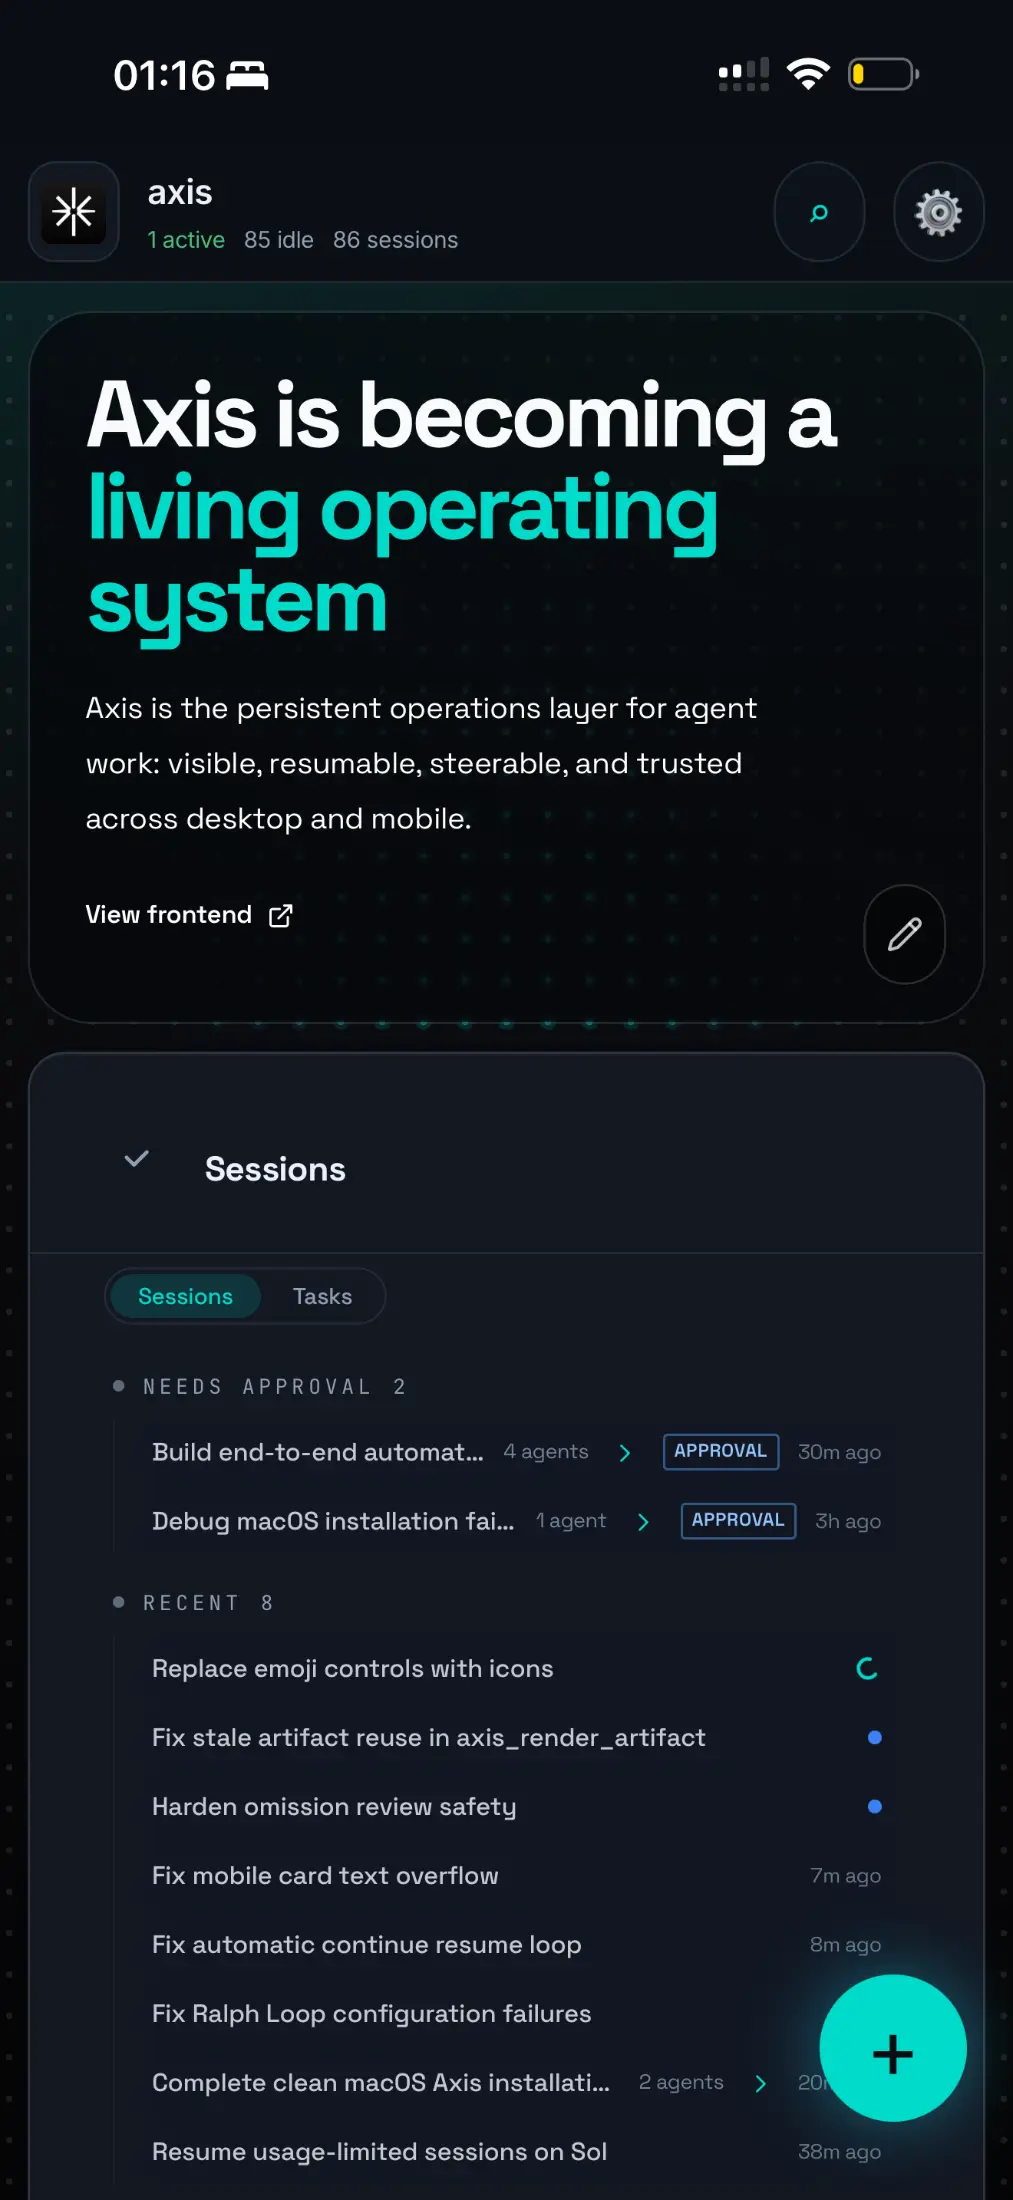
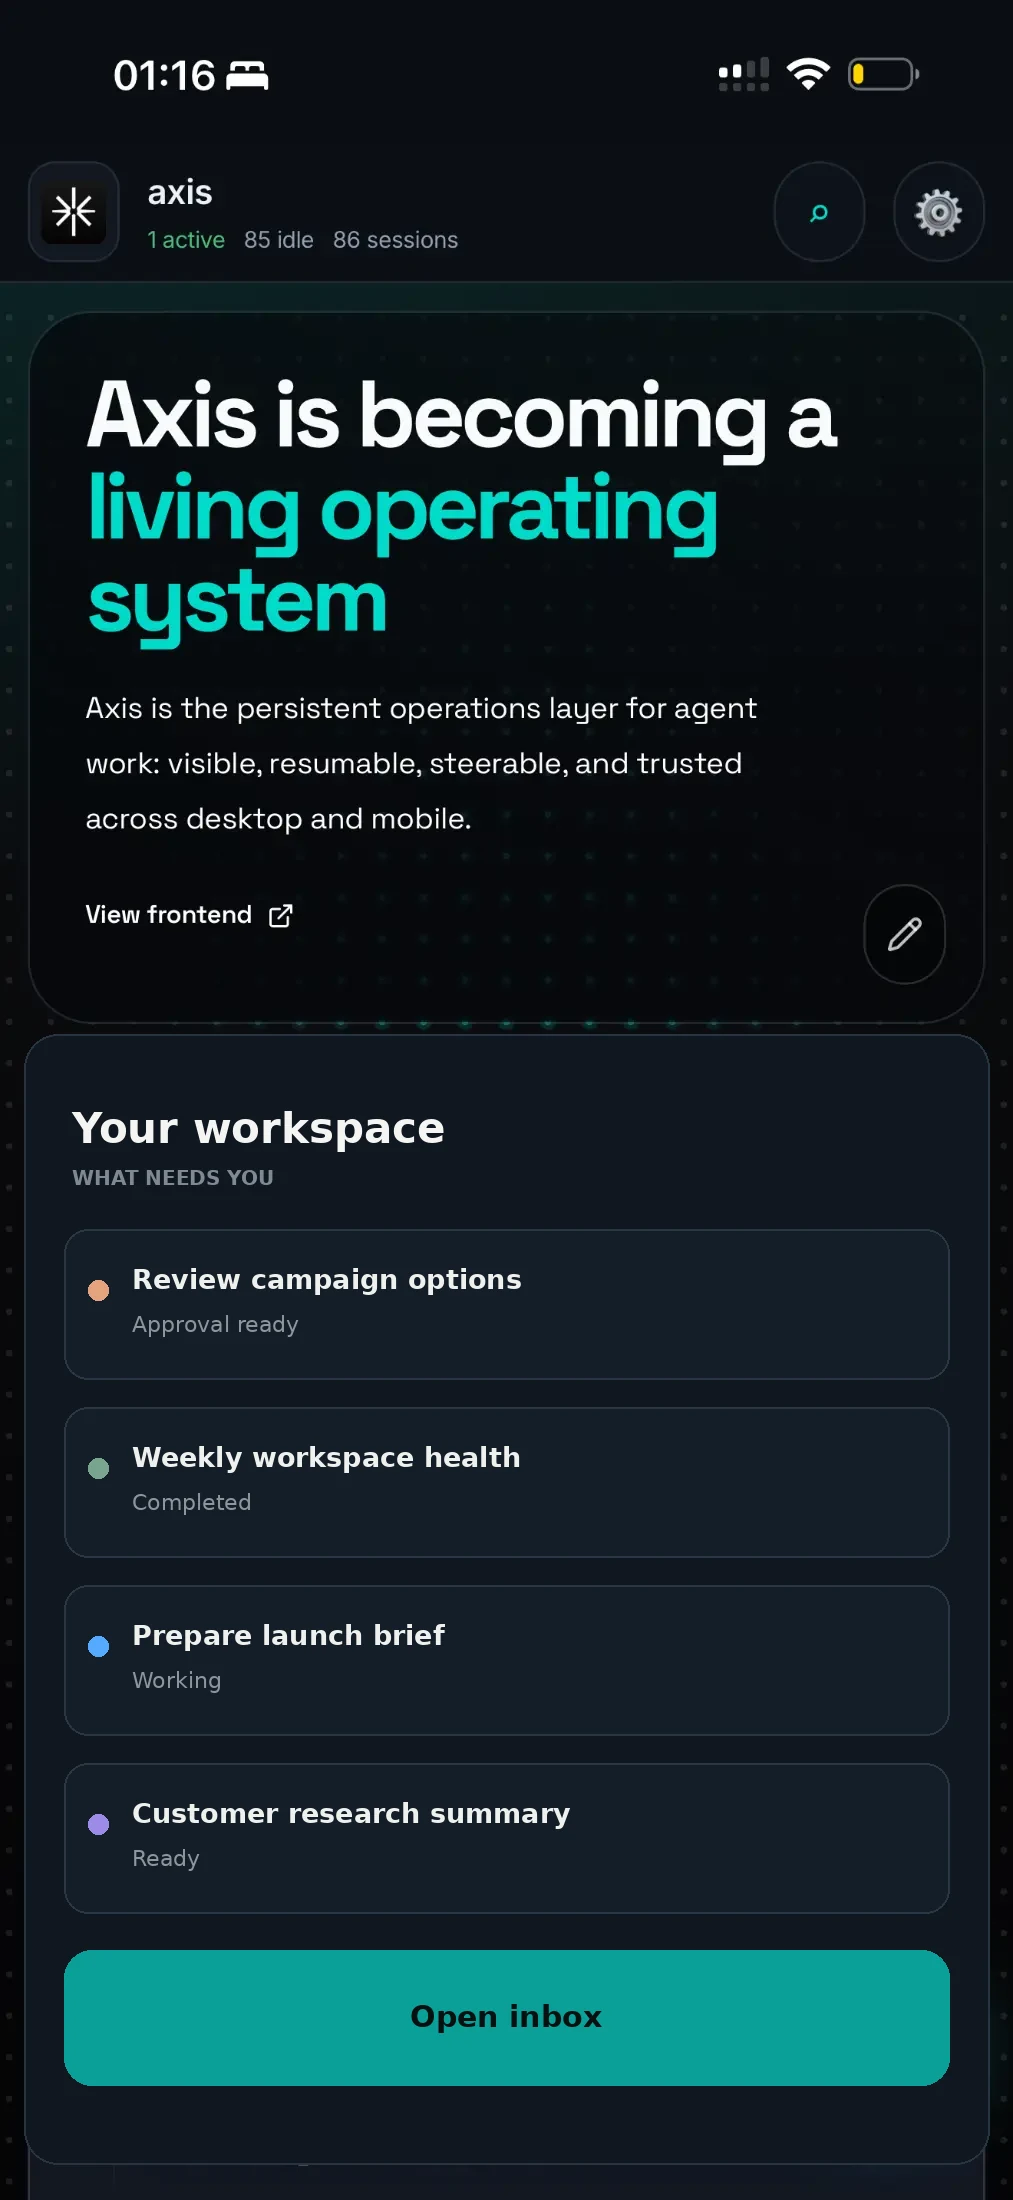
Harden homepage marquee and sanitize showcase

diff --git a/index.html b/index.html
@@ -33,7 +33,7 @@
 const FEATURES=[
  ['inbox.svg','Unified inbox','See approvals and the work that needs you next.'],['files.svg','Better artifacts','Turn agent work into polished, useful outputs.'],['brain.svg','Integrated memory','Start with the context that matters.'],['smartphone.svg','Mobile workspace','Use your real workspace on every device.'],['network.svg','Agent orchestration','Direct a team without losing the thread.'],['git-branch.svg','Native Git','Keep branches and changes close to the work.'],['calendar-clock.svg','Routines','Put repeatable agent work on autopilot.'],['globe.svg','Integrated browser','Research and verify in a real browser.'],['panels-top-left.svg','Generative UI','Turn results into useful interactive surfaces.'],['blocks.svg','Fully extensible','Bring your own tools, skills, and workflows.'],['zap.svg','Custom triggers','Start the right agent when an event happens.'],['clock-3.svg','Schedule prompts','Put the right prompt on the calendar.'],['repeat-2.svg','Loop engineering','Keep difficult work moving until it converges.'],['bot.svg','Your model subscriptions','Use the providers and models you already trust.']
 ];
-(()=>{const rows=[...document.querySelectorAll('[data-chain-row]')],reduce=matchMedia('(prefers-reduced-motion: reduce)');if(rows.length!==2)return;const card=([icon,title,copy])=>`<article class="feature-card"><img src="assets/lucide/${icon}" alt=""><strong>${title}</strong><span>${copy}</span></article>`;rows.forEach(row=>{row.querySelector('.chain-track').innerHTML=[...FEATURES,...FEATURES,...FEATURES].map(card).join('')});let phase=0,velocity=.028,drag=null,last=performance.now(),cycle=0;const measure=()=>{cycle=rows[0].querySelector('.chain-track').scrollWidth/3};const wrap=v=>cycle?((v%cycle)+cycle)%cycle:0;const render=()=>{if(!cycle)measure();const half=cycle/2;rows[0].querySelector('.chain-track').style.transform=`translate3d(${-cycle-wrap(phase)}px,0,0)`;rows[1].querySelector('.chain-track').style.transform=`translate3d(${-cycle+wrap(phase+half)}px,0,0)`};const frame=now=>{const dt=Math.min(now-last,32);last=now;if(!drag&&!reduce.matches)phase+=velocity*dt;render();requestAnimationFrame(frame)};const down=(row,e)=>{drag={row,x:e.clientX,t:e.timeStamp};velocity=0;row.classList.add('dragging');row.setPointerCapture(e.pointerId)};const move=(row,e)=>{if(!drag||drag.row!==row)return;const dx=e.clientX-drag.x,dt=Math.max(1,e.timeStamp-drag.t);phase-=dx;velocity=Math.max(-1.1,Math.min(1.1,-dx/dt));drag.x=e.clientX;drag.t=e.timeStamp};const up=(row,e)=>{if(!drag||drag.row!==row)return;row.classList.remove('dragging');if(row.hasPointerCapture(e.pointerId))row.releasePointerCapture(e.pointerId);if(Math.abs(velocity)<.028)velocity=.028;drag=null};rows.forEach(row=>{row.addEventListener('pointerdown',e=>down(row,e));row.addEventListener('pointermove',e=>move(row,e));row.addEventListener('pointerup',e=>up(row,e));row.addEventListener('pointercancel',e=>up(row,e))});addEventListener('resize',()=>{measure();render()});requestAnimationFrame(()=>{measure();render();requestAnimationFrame(frame)})})();
+(()=>{const rows=[...document.querySelectorAll('[data-chain-row]')],reduce=matchMedia('(prefers-reduced-motion: reduce)');if(rows.length!==2)return;const card=([icon,title,copy])=>`<article class="feature-card"><img src="assets/lucide/${icon}" alt=""><strong>${title}</strong><span>${copy}</span></article>`;const rowFeatures=[FEATURES.filter((_,index)=>index%2===0),FEATURES.filter((_,index)=>index%2===1)];rows.forEach((row,index)=>{const features=rowFeatures[index];row.querySelector('.chain-track').innerHTML=[...features,...features,...features].map(card).join('')});let phase=0,velocity=.028,drag=null,last=performance.now(),cycle=0;const measure=()=>{cycle=rows[0].querySelector('.chain-track').scrollWidth/3};const wrap=v=>cycle?((v%cycle)+cycle)%cycle:0;const render=()=>{if(!cycle)measure();const half=cycle/2;rows[0].querySelector('.chain-track').style.transform=`translate3d(${-cycle-wrap(phase)}px,0,0)`;rows[1].querySelector('.chain-track').style.transform=`translate3d(${-cycle+wrap(phase+half)}px,0,0)`};const frame=now=>{const dt=Math.min(now-last,32);last=now;if(!drag&&!reduce.matches)phase+=velocity*dt;render();requestAnimationFrame(frame)};const down=(row,e)=>{drag={row,x:e.clientX,t:e.timeStamp};velocity=0;row.classList.add('dragging');row.setPointerCapture(e.pointerId)};const move=(row,e)=>{if(!drag||drag.row!==row)return;const dx=e.clientX-drag.x,dt=Math.max(1,e.timeStamp-drag.t);phase-=dx;velocity=Math.max(-1.1,Math.min(1.1,-dx/dt));drag.x=e.clientX;drag.t=e.timeStamp};const up=(row,e)=>{if(!drag||drag.row!==row)return;row.classList.remove('dragging');if(row.hasPointerCapture(e.pointerId))row.releasePointerCapture(e.pointerId);if(Math.abs(velocity)<.028)velocity=.028;drag=null};rows.forEach(row=>{row.addEventListener('pointerdown',e=>down(row,e));row.addEventListener('pointermove',e=>move(row,e));row.addEventListener('pointerup',e=>up(row,e));row.addEventListener('pointercancel',e=>up(row,e))});addEventListener('resize',()=>{measure();render()});requestAnimationFrame(()=>{measure();render();requestAnimationFrame(frame)})})();
 (()=>{const trigger=document.getElementById('platform-trigger'),menu=document.getElementById('platform-menu');trigger.addEventListener('click',()=>{const open=!menu.classList.contains('open');menu.classList.toggle('open',open);trigger.setAttribute('aria-expanded',String(open))});document.addEventListener('click',e=>{if(!menu.contains(e.target)&&e.target!==trigger){menu.classList.remove('open');trigger.setAttribute('aria-expanded','false')}})})();
 (async()=>{try{const response=await fetch('./release-manifest.json',{cache:'no-store'});if(!response.ok)return;const manifest=await response.json();const links={macos:document.getElementById('menu-macos'),linux:document.getElementById('menu-linux'),ios:document.getElementById('menu-ios'),android:document.getElementById('menu-android')};for(const [key,link] of Object.entries(links)){const release=manifest[key];if(!release?.available||!release.url)continue;link.removeAttribute('aria-disabled');link.href=release.url;link.setAttribute('download','');link.querySelector('small').textContent='Available'}const ua=navigator.userAgent.toLowerCase(),compact=matchMedia('(max-width: 760px)').matches;const preferred=compact&&ua.includes('android')?'android':compact&&/iphone|ipad/.test(ua)?'ios':ua.includes('linux')&&!ua.includes('android')?'linux':'macos';const key=manifest[preferred]?.available?preferred:null;const button=document.getElementById('recommended-download');if(key){const names={macos:'Download for macOS',linux:'Download for Linux',ios:'Download for iOS',android:'Download for Android'},icons={macos:'apple.svg',linux:'linux.svg',ios:'apple.svg',android:'android.svg'};button.removeAttribute('aria-disabled');button.href=manifest[key].url;button.setAttribute('download','');document.getElementById('recommended-label').textContent=names[key];document.getElementById('recommended-icon').src=`assets/platform/${icons[key]}`}}catch{}})();
 </script>
